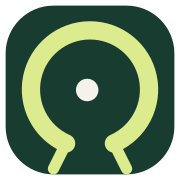
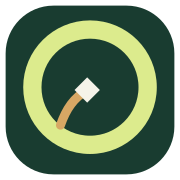
Refresh Omutambo Field Command experience

diff --git a/index.html b/index.html
@@ -12,8 +12,8 @@
 <meta property="og:url" content="https://omutambo.pages.dev/">
 <meta property="og:title" content="Omutambo — Your herd. Your ground. Your control.">
 <meta property="og:description" content="One practical operating picture for livestock, poultry, land and the work ahead. Built in Namibia.">
-<meta property="og:image" content="https://omutambo.pages.dev/og-image.png?v=brand-system-2">
-<meta property="og:image:secure_url" content="https://omutambo.pages.dev/og-image.png?v=brand-system-2">
+<meta property="og:image" content="https://omutambo.pages.dev/og-image.png?v=brand-system-4">
+<meta property="og:image:secure_url" content="https://omutambo.pages.dev/og-image.png?v=brand-system-4">
 <meta property="og:image:type" content="image/png">
 <meta property="og:image:width" content="1200">
 <meta property="og:image:height" content="630">
@@ -21,21 +21,23 @@
 <meta name="twitter:card" content="summary_large_image">
 <meta name="twitter:title" content="Omutambo — Your herd. Your ground. Your control.">
 <meta name="twitter:description" content="One practical operating picture for livestock, poultry, land and the work ahead. Built in Namibia.">
-<meta name="twitter:image" content="https://omutambo.pages.dev/og-image.png?v=brand-system-2">
+<meta name="twitter:image" content="https://omutambo.pages.dev/og-image.png?v=brand-system-4">
 <meta name="twitter:image:alt" content="Omutambo Herd Operations — a Namibia-first livestock and poultry operations workspace">
+<link rel="stylesheet" href="/brand.css">
 <link rel="stylesheet" href="/site.css">
 <link rel="stylesheet" href="/release.css">
-<link rel="icon" href="/favicon.svg" type="image/svg+xml">
-<link rel="icon" href="/favicon-32x32.png" type="image/png" sizes="32x32">
-<link rel="shortcut icon" href="/favicon.ico">
-<link rel="apple-touch-icon" href="/apple-touch-icon.png" sizes="180x180">
+<link rel="icon" href="/favicon.svg?v=4" type="image/svg+xml">
+<link rel="icon" href="/favicon-32x32.png?v=4" type="image/png" sizes="32x32">
+<link rel="shortcut icon" href="/favicon.ico?v=4">
+<link rel="apple-touch-icon" href="/apple-touch-icon.png?v=4" sizes="180x180">
 </head>
-<body data-release="livestock-poultry-1" data-verification-total="100"><a class="skip" href="#main">Skip to content</a><header class="wrap nav"><a class="brand" href="/" aria-label="Omutambo home"><img class="brand-mark" src="/omutambo-symbol.svg" alt=""><span>OMUTAMBO<small>HERD OPERATIONS</small></span></a><nav aria-label="Main navigation"><a href="#inside">The workspace</a><a href="#method">How it works</a><a class="button dark small" href="https://omutambo-herd-operations.pages.dev/login">Sign in <span aria-hidden="true">↗</span></a></nav></header>
-<main id="main"><section class="wrap hero"><div class="intro"><p class="eyebrow"><span class="dot"></span> ROOTED IN NAMIBIA</p><h1>Your herd.<br>Your ground.<br><em>Your control.</em></h1><p class="lead">A clearer operating picture for cattle, goats, sheep, other livestock and poultry. Keep the animals, the land and the work ahead in one practical workspace.</p><div class="actions"><a class="button dark" href="https://omutambo-herd-operations.pages.dev/login">Enter your workspace <span aria-hidden="true">↗</span></a><a class="text-link" href="#access">Have an invitation?</a></div><p class="fine">Private workspaces. Named access. Built in Namibia.</p></div><div class="field-card"><div class="card-top"><span>THE WORKING PICTURE</span><span>01 / OMUTAMBO</span></div><svg class="landscape" viewBox="0 0 600 470" role="img" aria-labelledby="field-title"><title id="field-title">An illustrated Namibian landscape, with livestock camps and a water point</title><defs><pattern id="grass" width="28" height="28" patternUnits="userSpaceOnUse"><path d="M6 17l3-6 3 6" fill="none" stroke="#738369" stroke-width="1" opacity=".3"/></pattern></defs><rect width="600" height="470" fill="#e4dec7"/><circle cx="448" cy="90" r="40" fill="#d7a764"/><path d="M0 173L107 116 193 152 310 104 431 149 600 113V470H0Z" fill="#b9bda0"/><path d="M0 262L180 204 367 260 600 196V470H0Z" fill="#849878"/><path d="M0 306L600 266V470H0Z" fill="#456951"/><path d="M0 306L600 266V470H0Z" fill="url(#grass)"/><path d="M190 213L249 470M367 260L348 470M0 367L600 329" fill="none" stroke="#d9dbb9" stroke-width="2" stroke-dasharray="6 5"/><path d="M600 226Q438 269 488 470" fill="none" stroke="#d2c29c" stroke-width="24"/><circle cx="296" cy="331" r="14" fill="#a9c9ca" stroke="#e7ead4" stroke-width="5"/><g fill="#192f26"><path d="M108 335h32l7 8v17h-5v-9h-27v9h-5v-19l-6-2z"/><path d="M149 381h30l7 8v16h-5v-9h-25v9h-5v-18l-6-2z"/><path d="M386 364h29l7 7v17h-5v-9h-25v9h-5v-18l-6-2z"/></g><g font-family="Arial,sans-serif" fill="#f3f1de" font-size="10" letter-spacing="2"><text x="75" y="318">THE HERD</text><text x="255" y="372">WATER</text><text x="373" y="315">THE LAND</text></g></svg><div class="field-caption"><img class="mini-mark" src="/omutambo-symbol.svg" alt=""><p>See the whole farm.<br><strong>Keep every animal in the picture.</strong></p></div><span class="illustration-note">Illustration · no live farm data</span></div></section>
+<body data-release="field-command-1" data-verification-total="100"><a class="skip" href="#main">Skip to content</a><header class="wrap nav"><a class="brand" href="/" aria-label="Omutambo home"><img class="brand-mark" src="/omutambo-symbol.svg?v=4" alt=""><span>OMUTAMBO<small>HERD OPERATIONS</small></span></a><nav aria-label="Main navigation"><a href="#inside">The workspace</a><a href="#method">How it works</a><a class="button dark small" href="https://omutambo-herd-operations.pages.dev/login">Sign in <span aria-hidden="true">↗</span></a></nav></header>
+<main id="main"><section class="wrap hero"><div class="intro"><p class="eyebrow"><span class="dot"></span> ROOTED IN NAMIBIA</p><h1>Your herd.<br>Your ground.<br><em>Your control.</em></h1><p class="lead">A clearer operating picture for cattle, goats, sheep, other livestock and poultry. Keep the animals, the land and the work ahead in one practical workspace.</p><div class="actions"><a class="button dark" href="https://omutambo-herd-operations.pages.dev/login">Enter your workspace <span aria-hidden="true">↗</span></a><a class="text-link" href="#access">Have an invitation?</a></div><p class="fine">Private workspaces. Named access. Built in Namibia.</p></div><div class="field-card"><div class="card-top"><span>THE WORKING PICTURE</span><span>01 / OMUTAMBO</span></div><svg class="landscape" viewBox="0 0 600 470" role="img" aria-labelledby="field-title"><title id="field-title">An illustrated Namibian landscape, with livestock camps and a water point</title><defs><pattern id="grass" width="28" height="28" patternUnits="userSpaceOnUse"><path d="M6 17l3-6 3 6" fill="none" stroke="#738369" stroke-width="1" opacity=".3"/></pattern></defs><rect width="600" height="470" fill="#e4dec7"/><circle cx="448" cy="90" r="40" fill="#d7a764"/><path d="M0 173L107 116 193 152 310 104 431 149 600 113V470H0Z" fill="#b9bda0"/><path d="M0 262L180 204 367 260 600 196V470H0Z" fill="#849878"/><path d="M0 306L600 266V470H0Z" fill="#456951"/><path d="M0 306L600 266V470H0Z" fill="url(#grass)"/><path d="M190 213L249 470M367 260L348 470M0 367L600 329" fill="none" stroke="#d9dbb9" stroke-width="2" stroke-dasharray="6 5"/><path d="M600 226Q438 269 488 470" fill="none" stroke="#d2c29c" stroke-width="24"/><circle cx="296" cy="331" r="14" fill="#a9c9ca" stroke="#e7ead4" stroke-width="5"/><g fill="#192f26"><path d="M108 335h32l7 8v17h-5v-9h-27v9h-5v-19l-6-2z"/><path d="M149 381h30l7 8v16h-5v-9h-25v9h-5v-18l-6-2z"/><path d="M386 364h29l7 7v17h-5v-9h-25v9h-5v-18l-6-2z"/></g><g font-family="Arial,sans-serif" fill="#f3f1de" font-size="10" letter-spacing="2"><text x="75" y="318">THE HERD</text><text x="255" y="372">WATER</text><text x="373" y="315">THE LAND</text></g></svg><div class="field-caption"><img class="mini-mark" src="/omutambo-symbol.svg?v=4" alt=""><p>See the whole farm.<br><strong>Keep every animal in the picture.</strong></p></div><span class="illustration-note">Illustration · no live farm data</span></div></section>
 <section class="strip"><div class="wrap strip-inner"><p>From tagged livestock and flocks<br><strong>to the next verified job.</strong></p><div>CATTLE · GOATS · SHEEP</div><div>POULTRY COMMAND</div><div>LAND · TASKS · COSTS</div></div></section>
-<section class="wrap release-proof" aria-label="Current release"><div><p class="eyebrow"><span class="dot"></span> LIVE RELEASE</p><h2>Livestock and poultry,<br>working as one picture.</h2></div><dl><div><dt>Release</dt><dd>livestock-poultry-1</dd></div><div><dt>Automated checks</dt><dd>100 passed</dd></div><div><dt>Access</dt><dd>Invitation only</dd></div></dl><p>Production is deployed. The owner-authenticated save, reload, export and restore check remains visibly tracked rather than implied complete.</p></section>
+<section class="wrap release-proof" aria-label="Current release"><div><p class="eyebrow"><span class="dot"></span> LIVE RELEASE</p><h2>Livestock and poultry,<br>working as one picture.</h2></div><dl><div><dt>Release</dt><dd>field-command-1</dd></div><div><dt>Automated checks</dt><dd>100 passed</dd></div><div><dt>Access</dt><dd>Invitation only</dd></div></dl><p>Production is deployed. The owner-authenticated save, reload, export and restore check remains visibly tracked rather than implied complete.</p></section>
+<section class="wrap workspace-preview" aria-labelledby="preview-title"><div class="preview-copy"><p class="eyebrow">INSIDE THE WORKSPACE</p><h2 id="preview-title">The next action stays visible.</h2><p>One calm command view brings livestock, birds and field work together. Measures come from entered records; missing days remain missing.</p><a class="text-link" href="#inside">Explore the operating picture ↓</a></div><div class="preview-shell" aria-label="Fictional Omutambo dashboard preview"><div class="preview-top"><span><i></i> DEMO · FICTIONAL DATA</span><strong>FIELD OVERVIEW</strong></div><div class="preview-metrics"><div><small>ACTIVE LIVESTOCK</small><b>48</b><em>3 species</em></div><div><small>ACTIVE BIRDS</small><b>392</b><em>3 flocks</em></div><div><small>OPEN ACTIONS</small><b>6</b><em>Health · field · poultry</em></div></div><div class="preview-list"><div><span>TODAY</span><p><b>Check east-camp troughs</b><small>Field team · verification due</small></p></div><div><span>REVIEW</span><p><b>Broiler mortality entry</b><small>2 birds · cause and controls</small></p></div></div><p class="preview-note">Illustrative interface · no live farm records</p></div></section>
 <section class="wrap operating-loop" id="method" aria-labelledby="loop-title"><div class="loop-intro"><p class="eyebrow">FROM RECORD TO RESPONSE</p><h2 id="loop-title">A farm system should help the next person act.</h2><p>Omutambo turns field entries into a reviewable operating loop. It does not guess what happened, hide missing data or make decisions on your behalf.</p></div><ol><li><span>01</span><div><strong>Record</strong><p>Capture an animal, flock, event, task or cost where the work happens.</p></div></li><li><span>02</span><div><strong>Connect</strong><p>Keep identity, camp, timing, evidence and responsibility together.</p></div></li><li><span>03</span><div><strong>Review</strong><p>See what is due, missing, changing or under pressure from entered records.</p></div></li><li><span>04</span><div><strong>Respond</strong><p>Assign the next action, preserve the history and verify the outcome.</p></div></li></ol></section>
 <section class="wrap section" id="inside"><div class="section-heading"><p class="eyebrow">ONE PLACE FOR THE DAILY WORK</p><h2>The detail matters.<br>So does the bigger picture.</h2><p>Keep useful records close, follow up on the work that needs doing, and see operational measures built only from what you enter.</p></div><div class="features"><article><span class="number">01</span><h3>Manage every livestock type.</h3><p>Keep cattle, goats, sheep and freely named animal types in one tagged register with photographs, breed, class, camp, status, health and breeding context.</p></article><article><span class="number">02</span><h3>Run poultry with evidence.</h3><p>Manage flocks and housing, then record eggs, feed, mortality, weights, health, cleaning, water and biosecurity. Review lay rate, feed intensity and capacity pressure without invented data.</p></article><article><span class="number">03</span><h3>Connect work and recovery.</h3><p>Track camps, movements, tasks and NAD costs. Export separate registers, keep photo-inclusive backups and review versioned cloud revisions.</p></article></div></section>
 <section class="wrap access-section" id="access"><div><p class="eyebrow">ACCESS BY INVITATION</p><h2>A public front door.<br>A private workspace.</h2><p>You need an invitation from the owner to enter. Each invited tester receives a separate demonstration workspace; the owner's live farm stays private.</p><a class="button light" href="https://omutambo-herd-operations.pages.dev/login">Sign in or activate <span aria-hidden="true">↗</span></a></div><ol class="steps"><li><span>01</span><div><h3>Receive your invitation</h3><p>The owner gives you a one-time activation code, linked to your email address.</p></div></li><li><span>02</span><div><h3>Verify your email</h3><p>Sign in through Cloudflare using the email on your invitation. Enter the email verification PIN there.</p></div></li><li><span>03</span><div><h3>Activate and get to work</h3><p>Enter your invitation code once. Your permission and expiry are set by the owner. Returning users can open their workspace after signing in.</p></div></li></ol></section>
 <section class="wrap bottom"><p class="eyebrow">BUILT WITH PURPOSE</p><h2>Namibian ground.<br>Thoughtful software.</h2><p>Omutambo is live for invited demonstrations with multi-species livestock and poultry operations. Explore the synchronized case study, or contact its creator about access.</p><div class="actions"><a class="text-link" href="https://github.com/freeman-ipumbu/omutambo-herd-case-study">Read the case study ↗</a><a class="text-link" href="mailto:freeman.ipumbu@outlook.com?subject=Omutambo%20demo%20access">Ask about a demonstration ↗</a></div></section></main>
-<footer class="wrap footer"><a class="brand" href="/" aria-label="Omutambo home"><img class="brand-mark" src="/omutambo-symbol.svg" alt=""><span>OMUTAMBO</span></a><p class="experience-credit">Digital experience by <a href="https://freeman-ipumbu.pages.dev/" target="_blank" rel="noopener noreferrer">SolarSpin Technologies</a> · Namibia</p><a href="https://omutambo-herd-operations.pages.dev/admin">Owner administration ↗</a><p class="footnote">Demonstration records are fictional. This public page contains no farm records or invitation credentials. Access and permissions are checked by the protected application. No public self-registration.</p></footer></body></html>
+<footer class="wrap footer"><a class="brand" href="/" aria-label="Omutambo home"><img class="brand-mark" src="/omutambo-symbol.svg?v=4" alt=""><span>OMUTAMBO</span></a><p class="experience-credit">Digital experience by <a href="https://freeman-ipumbu.pages.dev/" target="_blank" rel="noopener noreferrer">SolarSpin Technologies</a> · Namibia</p><a href="https://omutambo-herd-operations.pages.dev/admin">Owner administration ↗</a><p class="footnote">Demonstration records are fictional. This public page contains no farm records or invitation credentials. Access and permissions are checked by the protected application. No public self-registration.</p></footer></body></html>

diff --git a/release.css b/release.css
@@ -135,3 +135,54 @@
 
   .brand-mark { width: 35px; height: 35px; flex-basis: 35px; }
 }
+
+/* Field Command refresh — a restrained bridge from the public story to the workspace. */
+.nav {
+  position: sticky;
+  top: 0;
+  z-index: 12;
+  background: rgba(245, 243, 233, .92);
+  backdrop-filter: blur(14px);
+}
+
+.workspace-preview {
+  margin-top: 74px;
+  padding: 54px;
+  display: grid;
+  grid-template-columns: minmax(250px, .72fr) minmax(0, 1.28fr);
+  gap: 70px;
+  align-items: center;
+  border-radius: 22px;
+  background: var(--brand-deep);
+  color: #f5f3e9;
+  overflow: hidden;
+}
+
+.preview-copy h2 { margin: 17px 0 18px; }
+.preview-copy > p:not(.eyebrow) { color: #bdcec1; font-size: 14px; margin-bottom: 24px; }
+.preview-copy .eyebrow { color: var(--brand-lime); }
+.preview-copy .text-link { color: #f5f3e9; }
+.preview-shell { transform: rotate(.65deg); padding: 20px; border: 1px solid #ffffff28; border-radius: 16px; background: #f8f7ef; color: var(--brand-ink); box-shadow: 0 26px 70px #071a1240; }
+.preview-top { display: flex; justify-content: space-between; gap: 15px; padding-bottom: 14px; border-bottom: 1px solid var(--brand-line); font: 700 8px var(--brand-font-data); letter-spacing: 1px; }
+.preview-top span { display: flex; align-items: center; gap: 7px; color: #6e5d26; }
+.preview-top i { width: 7px; height: 7px; border-radius: 50%; background: var(--brand-gold); }
+.preview-metrics { display: grid; grid-template-columns: repeat(3, 1fr); gap: 10px; margin: 18px 0; }
+.preview-metrics div { padding: 13px; border: 1px solid var(--brand-line); border-radius: 10px; background: #fffdf8; }
+.preview-metrics small,.preview-metrics em { display: block; color: var(--brand-muted); font: 500 7px var(--brand-font-data); letter-spacing: .7px; }
+.preview-metrics b { display: block; margin: 5px 0 2px; font: 700 25px var(--brand-font-display); letter-spacing: -1px; }
+.preview-metrics em { font-style: normal; letter-spacing: 0; }
+.preview-list { border: 1px solid var(--brand-line); border-radius: 10px; background: #fffdf8; padding: 3px 13px; }
+.preview-list > div { display: grid; grid-template-columns: 54px 1fr; gap: 10px; align-items: start; padding: 11px 0; border-bottom: 1px solid #e9ece4; }
+.preview-list > div:last-child { border: 0; }
+.preview-list span { padding-top: 2px; color: #965037; font: 700 7px var(--brand-font-data); letter-spacing: .7px; }
+.preview-list p,.preview-list small { margin: 0; }
+.preview-list b { display: block; font-size: 11px; }
+.preview-list small { display: block; color: var(--brand-muted); font-size: 8px; }
+.preview-note { margin: 10px 0 0; color: var(--brand-muted); font-size: 8px; }
+
+@media (max-width: 800px) {
+  .workspace-preview { margin-top: 48px; padding: 32px 25px; grid-template-columns: 1fr; gap: 34px; }
+  .preview-shell { transform: none; }
+  .preview-metrics { grid-template-columns: 1fr 1fr; }
+  .preview-metrics div:last-child { grid-column: 1 / -1; }
+}

diff --git a/brand.css b/brand.css
@@ -1,0 +1,25 @@
+@import url('https://fonts.googleapis.com/css2?family=DM+Mono:wght@400;500&family=DM+Sans:wght@400;500;600;700&family=Manrope:wght@600;700&display=swap');
+
+:root {
+  --brand-ink: #193c30;
+  --brand-deep: #112f24;
+  --brand-field: #28583d;
+  --brand-paper: #f5f3e9;
+  --brand-surface: #fffdf8;
+  --brand-surface-soft: #edf0e4;
+  --brand-lime: #dceb8d;
+  --brand-lime-strong: #c9dc70;
+  --brand-gold: #d7a764;
+  --brand-rust: #c86747;
+  --brand-muted: #647267;
+  --brand-line: #d8ddd0;
+  --brand-focus: #9d5f2b;
+  --brand-shadow: 0 18px 48px rgba(25, 60, 48, .08);
+  --brand-radius-sm: 8px;
+  --brand-radius-md: 14px;
+  --brand-radius-lg: 22px;
+  --brand-font-display: 'Manrope', sans-serif;
+  --brand-font-body: 'DM Sans', sans-serif;
+  --brand-font-data: 'DM Mono', monospace;
+}
+

diff --git a/README.md b/README.md
@@ -11,9 +11,9 @@ Omutambo turns scattered notebooks, spreadsheets, WhatsApp messages and memory i
 <!-- RELEASE-STATUS:START -->
 ## Release status
 
-**livestock-poultry-1 — Multi-species livestock and poultry operations deployed; authenticated owner smoke check pending.**
+**field-command-1 — Unified Field Command experience deployed to production; authenticated owner smoke check remains pending.**
 
-Current deployed system: Production now includes cattle, goats, sheep and freely named livestock species plus flock-level poultry inventory, eggs, feed, mortality, weight, health, movement, cleaning, water and biosecurity records; the public front page remains at https://omutambo.pages.dev with protected sign-in and the existing verified invitation boundary.
+Current deployed system: The production refresh unifies the public site, protected workspace, invitation flow and owner console around a complete-enclosure identity, shared visual tokens, consistent icons, clearer action hierarchy, responsive record cards and evidence coverage for poultry measures while preserving the existing multi-species and access-control model.
 
 Review scope: Invitation-only test programme; each tester has a separate demo workspace; only the owner can access live farm records.
 
@@ -32,9 +32,11 @@ Remaining launch gates:
 
 I framed the operating problem, designed the information architecture, built the working product, shaped the Namibia-first visual language, added versioned cloud persistence and photo handling, deployed the private Cloudflare application and owner access management and wrote the production hardening plan.
 
-## Visual identity
+## Field Command design system
 
-The Omutambo mark is a circular livestock enclosure opening into a field path, with a single center point representing the animal or record under care. The same vector mark now anchors the public site, protected workspace, owner console, browser icon, installable-app manifest and social preview. Its dark field green, working lime and warm ground palette is designed to remain recognizable from a 16-pixel tab icon to a large product presentation without relying on a generic livestock silhouette.
+The refreshed identity keeps Omutambo recognisable rather than replacing it. The complete lime enclosure represents the farm boundary, the warm field path connects work to evidence and the central diamond represents the protected animal or record under care. The same mark, typography, colour tokens and icon language now connect the public front door, protected workspace, invitation flow, owner console, installable application and social preview.
+
+The interface refresh also sharpens operating priority: **Today on the farm** brings open field, health and poultry actions into one queue; the main header keeps one primary record action; mobile users get four frequent destinations plus a More sheet; and poultry performance now shows how many of the last seven days were actually logged. Missing days remain missing rather than being inferred.
 
 ## The problem
 
@@ -48,6 +50,8 @@ Omutambo explores a more dependable operating picture: every animal has an ident
 - Poultry flock and batch control with bird type, breed, purpose, placement date, housing, current count, capacity and status.
 - Flock-linked poultry operations for eggs, feed, mortality, weight, health, movements, cleaning, water and biosecurity.
 - Recorded-data poultry indicators for lay rate, feed intensity, mortality and housing pressure, with missing data left visible rather than estimated.
+- Visible seven-day data-coverage cues for egg and feed measures, anchored to the latest fictional log in the demo and the actual Namibian date in live workspaces.
+- Responsive record cards, a compact mobile operations dock and a consistent SVG icon system without changing the underlying registers.
 - Resized animal photographs attached from a phone or computer and included in complete backups.
 - Click-through animal profiles that bring identity, current camp, status and review context together.
 - Health and treatment ledger for vaccinations, follow-ups, drenches and vet notes.

diff --git a/CASE-STUDY.md b/CASE-STUDY.md
@@ -9,9 +9,9 @@ The production build covers cattle, goats, sheep and freely named livestock spec
 <!-- RELEASE-STATUS:START -->
 ## Release status
 
-**livestock-poultry-1 — Multi-species livestock and poultry operations deployed; authenticated owner smoke check pending.**
+**field-command-1 — Unified Field Command experience deployed to production; authenticated owner smoke check remains pending.**
 
-Current deployed system: Production now includes cattle, goats, sheep and freely named livestock species plus flock-level poultry inventory, eggs, feed, mortality, weight, health, movement, cleaning, water and biosecurity records; the public front page remains at https://omutambo.pages.dev with protected sign-in and the existing verified invitation boundary.
+Current deployed system: The production refresh unifies the public site, protected workspace, invitation flow and owner console around a complete-enclosure identity, shared visual tokens, consistent icons, clearer action hierarchy, responsive record cards and evidence coverage for poultry measures while preserving the existing multi-species and access-control model.
 
 Review scope: Invitation-only test programme; each tester has a separate demo workspace; only the owner can access live farm records.
 
@@ -27,8 +27,6 @@ Remaining launch gates:
 ## Design and responsibility
 
 Freeman Ipumbu: product strategy, research, interface design and systems engineering. The work carries forward NamAir and NamMar principles of visible state, explicit freshness and human authority through a multi-species farm record model.
-
-The refreshed visual identity is built around a kraal opening into a field path, with one center point for the animal or record under care. The shared vector mark now connects the public front door, protected workspace, owner console, browser icon, installable-app manifest and social preview as one product system.
 
 Demonstration examples are fictional. This product records operational decisions; it does not diagnose animals, prescribe treatments, approve sales or replace a qualified veterinarian. The test programme is not a claim of full commercial farm tenancy, regulatory certification or unlimited image storage.
 
